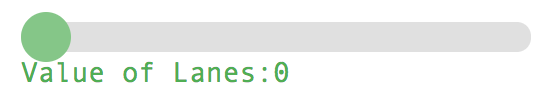
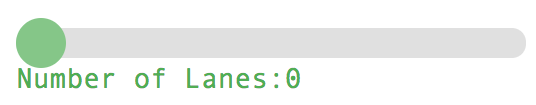
fixed img path error tutorial, and updated tutorial

Changed region(s): [[0.0299, 0.125, 0.9851, 0.875]]

diff --git a/src/client/app/widgets/car/documentation/car_tutorials/tutorial-Arcade.html b/src/client/app/widgets/car/documentation/car_tutorials/tutorial-Arcade.html
@@ -33,71 +33,71 @@
 <li><strong>Open <a href="http://localhost:8082/demos/arcade_game_simulator/">http://localhost:8082/demos/arcade_game_simulator/</a></strong></li>
 <li><strong>Select the image with the desired steering wheel, which will be used during the simulation.</strong></li>
 </ol>
-<p><img src="/Users/zecarlos/Desktop/pvsio-web/src/client/app/widgets/car/tutorials_jsdoc/img/selectSteeringWheel.png" alt="selectSteeringWheel" width="700" style="margin-left: 150px" ></p>
+<p><img src="/Users/zecarlos/Desktop/pvsio-web/src/client/app/widgets/car/documentation/tutorials_jsdoc/img/selectSteeringWheel.png" alt="selectSteeringWheel" width="700" style="margin-left: 150px" ></p>
 <ol start="3">
 <li><strong>Use the color pickers to select the track colors.</strong></li>
 </ol>
-<p><img src="/Users/zecarlos/Desktop/pvsio-web/src/client/app/widgets/car/tutorials_jsdoc/img/selectTrackColors.png" alt="selectTrackColors" width="700" style="margin-left: 150px" ></p>
+<p><img src="/Users/zecarlos/Desktop/pvsio-web/src/client/app/widgets/car/documentation/tutorials_jsdoc/img/selectTrackColors.png" alt="selectTrackColors" width="700" style="margin-left: 150px" ></p>
 <ol start="4">
 <li><strong>Insert within the square brackets the topography of the lane that you intend to use in the simulation, i.e., the lane that will be constructed and rendered. Use only the keywords: 'left', 'right' and 'straight' to describe the topography of the track, after &quot;name:&quot;. Use only the keywords: 'flat', 'up' and 'down' to describe the profile/height of the track after &quot;profile:&quot;. Use angles, in degrees, to define the curvature angle after &quot;curvature&quot;. The angle 0 represents a straight line. To represent left curvatures the angle must be between 0 and -90. To represent right curvatures the angle must be between 0 and 90.</strong></li>
 </ol>
-<p><img src="/Users/zecarlos/Desktop/pvsio-web/src/client/app/widgets/car/tutorials_jsdoc/img/selectTrackTopography.png" alt="selectTrackTopography" width="700" style="margin-left: 150px" ></p>
+<p><img src="/Users/zecarlos/Desktop/pvsio-web/src/client/app/widgets/car/documentation/tutorials_jsdoc/img/selectTrackTopography.png" alt="selectTrackTopography" width="700" style="margin-left: 150px" ></p>
 <ol start="5">
 <li><strong>Insert the spritesheet JSON filename.</strong></li>
 </ol>
-<p><img src="/Users/zecarlos/Desktop/pvsio-web/src/client/app/widgets/car/tutorials_jsdoc/img/selectSpritesheetJSON.png" alt="selectSpritesheetJSON" width="700" style="margin-left: 150px" ></p>
+<p><img src="/Users/zecarlos/Desktop/pvsio-web/src/client/app/widgets/car/documentation/tutorials_jsdoc/img/selectSpritesheetJSON.png" alt="selectSpritesheetJSON" width="700" style="margin-left: 150px" ></p>
 <ol start="6">
 <li><strong>Insert the spritesheet images filename, one with only letters and other with all objects/obstacles.</strong></li>
 </ol>
-<p><img src="/Users/zecarlos/Desktop/pvsio-web/src/client/app/widgets/car/tutorials_jsdoc/img/selectSpritesheetImages.png" alt="selectSpritesheetImages" width="700" style="margin-left: 150px" ></p>
+<p><img src="/Users/zecarlos/Desktop/pvsio-web/src/client/app/widgets/car/documentation/tutorials_jsdoc/img/selectSpritesheetImages.png" alt="selectSpritesheetImages" width="700" style="margin-left: 150px" ></p>
 <ol start="7">
 <li><strong>Insert within the square brackets the landscape sprites, separated by ','.</strong></li>
 </ol>
-<p><img src="/Users/zecarlos/Desktop/pvsio-web/src/client/app/widgets/car/tutorials_jsdoc/img/selectLandscapeObjects.png" alt="selectLandscapeObjects" width="700" style="margin-left: 150px" ></p>
+<p><img src="/Users/zecarlos/Desktop/pvsio-web/src/client/app/widgets/car/documentation/tutorials_jsdoc/img/selectLandscapeObjects.png" alt="selectLandscapeObjects" width="700" style="margin-left: 150px" ></p>
 <ol start="8">
 <li><strong>Insert within the square brackets the track sprites (obstacles), separated by ','.</strong></li>
 </ol>
-<p><img src="/Users/zecarlos/Desktop/pvsio-web/src/client/app/widgets/car/tutorials_jsdoc/img/selectTrackObstacles.png" alt="selectTrackObstacles" width="700" style="margin-left: 150px" ></p>
+<p><img src="/Users/zecarlos/Desktop/pvsio-web/src/client/app/widgets/car/documentation/tutorials_jsdoc/img/selectTrackObstacles.png" alt="selectTrackObstacles" width="700" style="margin-left: 150px" ></p>
 <ol start="9">
 <li><strong>Fill within the brackets each track parameters, after ':'.</strong></li>
 </ol>
-<p><img src="/Users/zecarlos/Desktop/pvsio-web/src/client/app/widgets/car/tutorials_jsdoc/img/selectTrackParams.png" alt="selectTrackParams" width="700" style="margin-left: 150px" ></p>
+<p><img src="/Users/zecarlos/Desktop/pvsio-web/src/client/app/widgets/car/documentation/tutorials_jsdoc/img/selectTrackParams.png" alt="selectTrackParams" width="700" style="margin-left: 150px" ></p>
 <ol start="10">
 <li><strong>Select arcade vehicle, present in both provided spritesheet JSON and png files, in steps 5 and 6.</strong></li>
 </ol>
-<p><img src="/Users/zecarlos/Desktop/pvsio-web/src/client/app/widgets/car/tutorials_jsdoc/img/selectArcadeVehicle.png" alt="selectArcadeVehicle" width="700" style="margin-left: 150px" ></p>
+<p><img src="/Users/zecarlos/Desktop/pvsio-web/src/client/app/widgets/car/documentation/tutorials_jsdoc/img/selectArcadeVehicle.png" alt="selectArcadeVehicle" width="700" style="margin-left: 150px" ></p>
 <ol start="11">
 <li><strong>Select other customization options for the dashboard widgets, which will be used during the simulation, and other rendering aspects using the following set of ranges.</strong></li>
 </ol>
-<p><img src="/Users/zecarlos/Desktop/pvsio-web/src/client/app/widgets/car/tutorials_jsdoc/img/selectRanges.png" alt="selectRanges" width="700" style="margin-left: 150px" ></p>
+<p><img src="/Users/zecarlos/Desktop/pvsio-web/src/client/app/widgets/car/documentation/tutorials_jsdoc/img/selectRanges.png" alt="selectRanges" width="700" style="margin-left: 150px" ></p>
 <blockquote>
 <p>Select the maximum values that the speedometer and tachometer widgets will have, in the 'Value of Speedometer' and 'Value of Tachometer' ranges. </p>
 </blockquote>
-<p><img src="/Users/zecarlos/Desktop/pvsio-web/src/client/app/widgets/car/tutorials_jsdoc/img/selectRangesSpeedometerTachometer.png" alt="selectRangesSpeedometerTachometer" width="500" style="margin-left: 150px" ></p>
+<p><img src="/Users/zecarlos/Desktop/pvsio-web/src/client/app/widgets/car/documentation/tutorials_jsdoc/img/selectRangesSpeedometerTachometer.png" alt="selectRangesSpeedometerTachometer" width="500" style="margin-left: 150px" ></p>
 <blockquote>
 <p>If the values selected in these ranges are 200 and 9, respectively, and if the steering wheel selected is the porsche steering wheel ( purple steering wheel ), then the final vehicle dashboard, which will be used during the simulation, is</p>
 </blockquote>
-<p><img src="/Users/zecarlos/Desktop/pvsio-web/src/client/app/widgets/car/tutorials_jsdoc/img/customizationResult.png" alt="customizationResult" width="500" style="margin-left: 150px" ></p>
+<p><img src="/Users/zecarlos/Desktop/pvsio-web/src/client/app/widgets/car/documentation/tutorials_jsdoc/img/customizationResult.png" alt="customizationResult" width="500" style="margin-left: 150px" ></p>
 <blockquote>
-<p>Select the desired number of lanes, to draw within the track during the simulation, in the 'Value of Lanes' range.</p>
+<p>Select the desired number of lanes, to draw within the track during the simulation, in the 'Number of Lanes' range.</p>
 </blockquote>
-<p><img src="/Users/zecarlos/Desktop/pvsio-web/src/client/app/widgets/car/tutorials_jsdoc/img/selectRangeLanes.png" alt="selectRangeLanes" width="200" style="margin-left: 300px" ></p>
+<p><img src="/Users/zecarlos/Desktop/pvsio-web/src/client/app/widgets/car/documentation/tutorials_jsdoc/img/selectRangeLanes.png" alt="selectRangeLanes" width="200" style="margin-left: 300px" ></p>
 <blockquote>
 <p>Select the frequency of obstacles to be placed within the track during the simulation, in the 'Frequence of Obstacles' range, i.e. choose how many iterations a new obstacle arises.</p>
 </blockquote>
-<p><img src="/Users/zecarlos/Desktop/pvsio-web/src/client/app/widgets/car/tutorials_jsdoc/img/selectRangesObstacles.png" alt="selectRangesObstacles" width="200" style="margin-left: 300px" ></p>
+<p><img src="/Users/zecarlos/Desktop/pvsio-web/src/client/app/widgets/car/documentation/tutorials_jsdoc/img/selectRangesObstacles.png" alt="selectRangesObstacles" width="200" style="margin-left: 300px" ></p>
 <blockquote>
-<p>Select the desired number of laps, to be rendered by Arcade widget during the simulation.</p>
+<p>Select the desired number of laps, in the 'Number of Laps' range, to be rendered by Arcade widget during the simulation.</p>
 </blockquote>
-<p><img src="/Users/zecarlos/Desktop/pvsio-web/src/client/app/widgets/car/tutorials_jsdoc/img/selectLaps.png" alt="selectLaps" width="200" style="margin-left: 300px" ></p>
+<p><img src="/Users/zecarlos/Desktop/pvsio-web/src/client/app/widgets/car/documentation/tutorials_jsdoc/img/selectLaps.png" alt="selectLaps" width="200" style="margin-left: 300px" ></p>
 <blockquote>
 <p>Choose if Arcade widget will use the PVS instructions during the simulation. By default, i.e. value 0, this widget will use PVS instructions to update the vehicle status during the simulation. This slider allows to test the difference in the rendering processs speed, since PVS instructions turns the simulation much slower than using a self-contained widget that calculates those values.</p>
 </blockquote>
-<p><img src="/Users/zecarlos/Desktop/pvsio-web/src/client/app/widgets/car/tutorials_jsdoc/img/selectPVS.png" alt="selectPVS" width="200" style="margin-left: 300px" ></p>
+<p><img src="/Users/zecarlos/Desktop/pvsio-web/src/client/app/widgets/car/documentation/tutorials_jsdoc/img/selectPVS.png" alt="selectPVS" width="200" style="margin-left: 300px" ></p>
 <blockquote>
 <p>To finish the customization, slide the last range to the right.</p>
 </blockquote>
-<p><img src="/Users/zecarlos/Desktop/pvsio-web/src/client/app/widgets/car/tutorials_jsdoc/img/endRange.png" alt="EndRange" width="50" style="margin-left: 400px" ></p>
+<p><img src="/Users/zecarlos/Desktop/pvsio-web/src/client/app/widgets/car/documentation/tutorials_jsdoc/img/endRange.png" alt="EndRange" width="50" style="margin-left: 400px" ></p>
 <blockquote>
 <p>Although it was not an objective in this dissertation, the widget 'Customization' was created to ease the simulation process. However, since this is not a priority, this widget can be improved over time, for example by adding other customization options that match the optional fields that the TrackGenerator and Arcade widgets have.</p>
 </blockquote>
@@ -136,8 +136,6 @@ trackGenerator.trackGeneratorWidget = new TrackGenerator(&quot;trackGeneratorWid
     laneWidth: 0.02,
     trackParam: {
         numZones:    12, // number of different portions of the track
-        curvy:     0.8,
-        mountainy: 0.8,
         zoneSize:  250 // length of each numZones (the bigger this value. the longer it will take to finish)
     },
     // Information regarding current controllable_car's car
@@ -637,10 +635,10 @@ trackColors: {
 },
 trackLayout: []</code></pre></blockquote>
 <blockquote>
-<p>The desired layout, 'trackLayout' optional field, will only be translated into canvas segments, which will be represented by the Arcade widget, by the generateDesiredTrack() method. The generateStraightTrack() and generateTrackCurvesSlopes() methods can be invoked when the user wants to render random track, with only straight lines or with straight lines, curves and slopes, respectively.</p>
+<p>The desired layout, 'trackLayout' optional field, will only be translated into canvas segments, which will be represented by the Arcade widget, by the generateTrackBasedOnTrackLayoutOptField() method. The generateStraightTrack() and generateTrackCurvesSlopes() methods can be invoked when the user wants to render random track, with only straight lines or with straight lines, curves and slopes, respectively.</p>
 </blockquote>
 <blockquote>
-<p>Invoking the above APIs ( generateStraightTrack(),generateTrackCurvesSlopes(),generateDesiredTrack ) results in the creation of a JSON file with the following structure,</p>
+<p>Invoking the above APIs ( generateStraightTrack(),generateTrackCurvesSlopes(),generateTrackBasedOnTrackLayoutOptField() ) results in the creation of a JSON file with the following structure,</p>
 </blockquote>
 <pre class="prettyprint source"><code>generatedJSON = {
     controllable_car: controllable_car,
@@ -654,7 +652,10 @@ trackLayout: []</code></pre></blockquote>
     trackSegmentSize: trackSegmentSize,
     trackColors: trackColors
 };</code></pre><blockquote>
-<p>Currently, PVSio-web does not have any file-writing APIs in the context of widgets, and as such, the TrackGenerator widget is not able to write the JSON file. Then, the user needs to perform <code>console.log(JSON.stringify(generatedJSON))</code> and copy/paste the result into a JSON file, that is, the user needs to perform the non-existent API process manually. Predefined file names are &quot;track-straight.json&quot; or &quot;track-curves-slopes.json&quot;, however it is possible to use other file names, since the Arcade widget receives the filename as optional field. When the file-writing API exists, it should be added on lines 628 and 847 with <code>console.log(JSON.stringify(generatedJSON))</code>, as well as the filename, as arguments, in TrackGenerator.js file. This file-writing API, must return the filename just created, so it can be used in the pipeline Customization Widget -&gt; TrackGenerator Widget -&gt; Arcade Widget automatically, for more detailed information see <a href="https://github.com/zecarlos94/pvsio-web/tree/gaming/src/client/app/widgets/car/Customization.js">https://github.com/zecarlos94/pvsio-web/tree/gaming/src/client/app/widgets/car/Customization.js</a> (line 1855 to 1865).</p>
+<p>Currently, PVSio-web does not have any file-writing APIs in the context of widgets, and as such, the TrackGenerator widget is not able to write the JSON file. Then, the user needs to perform <code>console.log(JSON.stringify(self2.generatedJSON));</code> and copy/paste the result into a JSON file, that is, the user needs to perform the non-existent API process manually. Predefined file names are &quot;track-straight-random.json&quot; or &quot;track-curves-slopes-random.json&quot;, however it is possible to use other file names, since the Arcade widget receives the filename as optional field. </p>
+</blockquote>
+<blockquote>
+<p>When the file-writing API exists, it should be added on lines 471, 739 and 931 with <code>console.log(JSON.stringify(self2.generatedJSON));</code> in <a href="https://github.com/zecarlos94/pvsio-web/tree/gamingDev/src/client/app/widgets/car/TrackGenerator.js">https://github.com/zecarlos94/pvsio-web/tree/gamingDev/src/client/app/widgets/car/TrackGenerator.js</a> file, as well as the filename, as arguments. This file-writing API, must return the filename just created, so it can be used in the pipeline Customization Widget -&gt; TrackGenerator Widget -&gt; Arcade Widget automatically, for more detailed information see <a href="https://github.com/zecarlos94/pvsio-web/tree/gamingDev/src/client/app/widgets/car/Customization.js">https://github.com/zecarlos94/pvsio-web/tree/gamingDev/src/client/app/widgets/car/Customization.js</a> (line 1673 should have the value obtained in line 1659, i.e. the value returned by the file-writing API).</p>
 </blockquote>
 <blockquote>
 <p>Once the JSON file with the desired track has been created, it will be possible to render it using the Arcade widget.</p>
@@ -1154,7 +1155,7 @@ state: TYPE = [#
 <br class="clear">
 
 <footer>
-    Documentation generated by <a href="https://github.com/jsdoc3/jsdoc">JSDoc 3.5.5</a> on Sun Jun 17 2018 11:13:26 GMT+0100 (WEST)
+    Documentation generated by <a href="https://github.com/jsdoc3/jsdoc">JSDoc 3.5.5</a> on Sun Jul 08 2018 12:03:27 GMT+0100 (WEST)
 </footer>
 
 <script> prettyPrint(); </script>

diff --git a/src/client/app/widgets/car/documentation/car_tutorials/index.html b/src/client/app/widgets/car/documentation/car_tutorials/index.html
@@ -45,16 +45,16 @@
     <section>
         <article><h1>Arcade Simulator JavaScript Library</h1><p>The PVSio-web Library for rendering 2D arcade simulations</p>
 <p>Related papers are available ( <a href="http://www.pvsioweb.org/">http://www.pvsioweb.org/</a> ).</p>
-<p>Further documentation can be found at ( <a href="http://github.com/zecarlos94/pvsio-web/tree/gaming/src/client/app/widgets/car/car_docs/index.html/">http://github.com/zecarlos94/pvsio-web/tree/gaming/src/client/app/widgets/car/car_docs/index.html/</a> )</p>
+<p>Further documentation can be found at ( <a href="https://github.com/zecarlos94/pvsio-web/blob/gamingDev/src/client/app/widgets/car/documentation/car_docs/index.html/">https://github.com/zecarlos94/pvsio-web/blob/gamingDev/src/client/app/widgets/car/documentation/car_docs/index.html/</a> )</p>
 <h2>How to Try</h2><h3>Initial setup required to run pvsio-web widgets</h3><pre class="prettyprint source"><code>1. cd Desktop/
 2. git clone &quot;https://github.com/zecarlos94/pvsio-web.git&quot;
 3. cd pvsio-web/
-4. git checkout gaming
+4. git checkout gamingDev
 5. Open browser &quot;http://pvs.csl.sri.com/download.shtml&quot; to download latest version of PVS Binaries according to your OS
 6. Copy/Paste and replace all files inside the downloaded folder to pvsio-web/PVS. (By default the provided binaries are for MacOS, and when running the demos on other OS those will not work)
 7. Run command: sh start.sh ( MacOS ) or ./start.sh ( Linux )</code></pre><h3>Running Demos on the browser</h3><p>Open <a href="http://localhost:8082/demos/arcade_game_simulator/">http://localhost:8082/demos/arcade_game_simulator/</a> with your browser to test the demo for the more conscious user, i.e. that sets all opt fields manually in index.js file.</p>
 <p>Or</p>
-<p>Open <a href="http://localhost:8082/demos/driving_simulator/">http://localhost:8082/demos/driving_simulator/</a> with your browser to test the demo for the less conscious user, i.e. that fills all customization menus to customize the simulation without setting opt fields manually. An example of possible values to fill those customization menus is presented in <a href="http://github.com/zecarlos94/pvsio-web/tree/gaming/src/client/app/widgets/car/configurations/CustomizationFieldsPossibleValues_Demo_Driving_Simulator.txt">http://github.com/zecarlos94/pvsio-web/tree/gaming/src/client/app/widgets/car/configurations/CustomizationFieldsPossibleValues_Demo_Driving_Simulator.txt</a></p>
+<p>Open <a href="http://localhost:8082/demos/driving_simulator/">http://localhost:8082/demos/driving_simulator/</a> with your browser to test the demo for the less conscious user, i.e. that fills all customization menus to customize the simulation without setting opt fields manually. An example of possible values to fill those customization menus is presented in <a href="https://github.com/zecarlos94/pvsio-web/blob/gamingDev/src/client/app/widgets/car/configurations/CustomizationFieldsPossibleValues_Demo_Driving_Simulator.txt">https://github.com/zecarlos94/pvsio-web/blob/gamingDev/src/client/app/widgets/car/configurations/CustomizationFieldsPossibleValues_Demo_Driving_Simulator.txt</a></p>
 <p>Only tested with Google Chrome.</p></article>
     </section>
 
@@ -72,7 +72,7 @@
 <br class="clear">
 
 <footer>
-    Documentation generated by <a href="https://github.com/jsdoc3/jsdoc">JSDoc 3.5.5</a> on Sun Jun 17 2018 11:13:26 GMT+0100 (WEST)
+    Documentation generated by <a href="https://github.com/jsdoc3/jsdoc">JSDoc 3.5.5</a> on Sun Jul 08 2018 12:03:27 GMT+0100 (WEST)
 </footer>
 
 <script> prettyPrint(); </script>

diff --git a/src/client/app/widgets/car/documentation/car_docs/Arcade.js.html b/src/client/app/widgets/car/documentation/car_docs/Arcade.js.html
@@ -60,8 +60,8 @@
  *                 // logoImgIndex: 1, // defines logo sprite image suffix
  *                 // backgroundImgIndex: 1, // defines background sprite image suffix
  *                 stripePositions: {
- *                    trackP1: -0.50,
- *                    trackP2: 0.50,
+ *                    trackP1: -0.55,
+ *                    trackP2: 0.55,
  *                    borderWidth: 0.08,
  *                    inOutBorderWidth: 0.02,
  *                    landscapeOutBorderWidth: 0.13,
@@ -137,8 +137,8 @@
  *                 // logoImgIndex: 1, // defines logo sprite image suffix
  *                 // backgroundImgIndex: 1, // defines background sprite image suffix
  *                 stripePositions: {
- *                    trackP1: -0.50,
- *                    trackP2: 0.50,
+ *                    trackP1: -0.55,
+ *                    trackP2: 0.55,
  *                    borderWidth: 0.08,
  *                    inOutBorderWidth: 0.02,
  *                    landscapeOutBorderWidth: 0.13,
@@ -239,7 +239,7 @@ define(function (require, exports, module) {
 	 * @param [opt.backgroundImgIndex] {Int} number placed as suffix in the JSON file with the sprite of the background image (default is null).
 	 * @param [opt.realisticImgs] {Bool} value that indicates if the sprite of the vehicle to be used is a realistic image or if it is a pixelated image as in arcade games (default is "false").
 	 * @param [opt.vehicle] {String} the type of vehicle to be used in the simulation. The types available are ["airplane", "bicycle", "car", "helicopter", "motorbike"]. It should be noted that these types must exist in the spritesheet if they are to be used. (default is "car").
-	 * @param [opt.stripePositions] {Object} position values and respective widths (borders, track and finish line) to be rendered on a stripe. (default is { trackP1: -0.50, trackP2: 0.50, borderWidth: 0.08, inOutBorderWidth: 0.02, landscapeOutBorderWidth: 0.13, diffTrackBorder: 0.05, finishLineP1: -0.40, finishLineP2: 0.40, diffLanesFinishLine: 0.05 }).
+	 * @param [opt.stripePositions] {Object} position values and respective widths (borders, track and finish line) to be rendered on a stripe. (default is { trackP1: -0.55, trackP2: 0.55, borderWidth: 0.08, inOutBorderWidth: 0.02, landscapeOutBorderWidth: 0.13, diffTrackBorder: 0.05, finishLineP1: -0.40, finishLineP2: 0.40, diffLanesFinishLine: 0.05 }).
 	 * @param [opt.lapNumber] {Int} the number of desired laps in the simulation (default is 2 laps).
 	 * @param [opt.showOfficialLogo] {Bool} the option to render extra image, on the bottom-left corner, which is the PVSio-web logo created in this thesis (default is false).
 	 * @param [opt.loadPVSSpeedPositions] {Bool} allows to use PVS calculated positions and speed in the simulation. (default is true).
@@ -2774,7 +2774,7 @@ define(function (require, exports, module) {
 <br class="clear">
 
 <footer>
-    Documentation generated by <a href="https://github.com/jsdoc3/jsdoc">JSDoc 3.5.5</a> on Sun Jun 17 2018 11:13:06 GMT+0100 (WEST)
+    Documentation generated by <a href="https://github.com/jsdoc3/jsdoc">JSDoc 3.5.5</a> on Sun Jul 08 2018 12:03:24 GMT+0100 (WEST)
 </footer>
 
 <script> prettyPrint(); </script>

diff --git a/src/client/app/widgets/car/Arcade.js b/src/client/app/widgets/car/Arcade.js
@@ -32,8 +32,8 @@
  *                 // logoImgIndex: 1, // defines logo sprite image suffix
  *                 // backgroundImgIndex: 1, // defines background sprite image suffix
  *                 stripePositions: {
- *                    trackP1: -0.50,
- *                    trackP2: 0.50,
+ *                    trackP1: -0.55,
+ *                    trackP2: 0.55,
  *                    borderWidth: 0.08,
  *                    inOutBorderWidth: 0.02,
  *                    landscapeOutBorderWidth: 0.13,
@@ -109,8 +109,8 @@
  *                 // logoImgIndex: 1, // defines logo sprite image suffix
  *                 // backgroundImgIndex: 1, // defines background sprite image suffix
  *                 stripePositions: {
- *                    trackP1: -0.50,
- *                    trackP2: 0.50,
+ *                    trackP1: -0.55,
+ *                    trackP2: 0.55,
  *                    borderWidth: 0.08,
  *                    inOutBorderWidth: 0.02,
  *                    landscapeOutBorderWidth: 0.13,
@@ -211,7 +211,7 @@ define(function (require, exports, module) {
 	 * @param [opt.backgroundImgIndex] {Int} number placed as suffix in the JSON file with the sprite of the background image (default is null).
 	 * @param [opt.realisticImgs] {Bool} value that indicates if the sprite of the vehicle to be used is a realistic image or if it is a pixelated image as in arcade games (default is "false").
 	 * @param [opt.vehicle] {String} the type of vehicle to be used in the simulation. The types available are ["airplane", "bicycle", "car", "helicopter", "motorbike"]. It should be noted that these types must exist in the spritesheet if they are to be used. (default is "car").
-	 * @param [opt.stripePositions] {Object} position values and respective widths (borders, track and finish line) to be rendered on a stripe. (default is { trackP1: -0.50, trackP2: 0.50, borderWidth: 0.08, inOutBorderWidth: 0.02, landscapeOutBorderWidth: 0.13, diffTrackBorder: 0.05, finishLineP1: -0.40, finishLineP2: 0.40, diffLanesFinishLine: 0.05 }).
+	 * @param [opt.stripePositions] {Object} position values and respective widths (borders, track and finish line) to be rendered on a stripe. (default is { trackP1: -0.55, trackP2: 0.55, borderWidth: 0.08, inOutBorderWidth: 0.02, landscapeOutBorderWidth: 0.13, diffTrackBorder: 0.05, finishLineP1: -0.40, finishLineP2: 0.40, diffLanesFinishLine: 0.05 }).
 	 * @param [opt.lapNumber] {Int} the number of desired laps in the simulation (default is 2 laps).
 	 * @param [opt.showOfficialLogo] {Bool} the option to render extra image, on the bottom-left corner, which is the PVSio-web logo created in this thesis (default is false).
 	 * @param [opt.loadPVSSpeedPositions] {Bool} allows to use PVS calculated positions and speed in the simulation. (default is true).

diff --git a/src/client/app/widgets/car/documentation/tutorials_jsdoc/Arcade.js b/src/client/app/widgets/car/documentation/tutorials_jsdoc/Arcade.js
@@ -32,8 +32,8 @@
  *                 // logoImgIndex: 1, // defines logo sprite image suffix
  *                 // backgroundImgIndex: 1, // defines background sprite image suffix
  *                 stripePositions: {
- *                    trackP1: -0.50,
- *                    trackP2: 0.50,
+ *                    trackP1: -0.55,
+ *                    trackP2: 0.55,
  *                    borderWidth: 0.08,
  *                    inOutBorderWidth: 0.02,
  *                    landscapeOutBorderWidth: 0.13,
@@ -109,8 +109,8 @@
  *                 // logoImgIndex: 1, // defines logo sprite image suffix
  *                 // backgroundImgIndex: 1, // defines background sprite image suffix
  *                 stripePositions: {
- *                    trackP1: -0.50,
- *                    trackP2: 0.50,
+ *                    trackP1: -0.55,
+ *                    trackP2: 0.55,
  *                    borderWidth: 0.08,
  *                    inOutBorderWidth: 0.02,
  *                    landscapeOutBorderWidth: 0.13,
@@ -211,7 +211,7 @@ define(function (require, exports, module) {
 	 * @param [opt.backgroundImgIndex] {Int} number placed as suffix in the JSON file with the sprite of the background image (default is null).
 	 * @param [opt.realisticImgs] {Bool} value that indicates if the sprite of the vehicle to be used is a realistic image or if it is a pixelated image as in arcade games (default is "false").
 	 * @param [opt.vehicle] {String} the type of vehicle to be used in the simulation. The types available are ["airplane", "bicycle", "car", "helicopter", "motorbike"]. It should be noted that these types must exist in the spritesheet if they are to be used. (default is "car").
-	 * @param [opt.stripePositions] {Object} position values and respective widths (borders, track and finish line) to be rendered on a stripe. (default is { trackP1: -0.50, trackP2: 0.50, borderWidth: 0.08, inOutBorderWidth: 0.02, landscapeOutBorderWidth: 0.13, diffTrackBorder: 0.05, finishLineP1: -0.40, finishLineP2: 0.40, diffLanesFinishLine: 0.05 }).
+	 * @param [opt.stripePositions] {Object} position values and respective widths (borders, track and finish line) to be rendered on a stripe. (default is { trackP1: -0.55, trackP2: 0.55, borderWidth: 0.08, inOutBorderWidth: 0.02, landscapeOutBorderWidth: 0.13, diffTrackBorder: 0.05, finishLineP1: -0.40, finishLineP2: 0.40, diffLanesFinishLine: 0.05 }).
 	 * @param [opt.lapNumber] {Int} the number of desired laps in the simulation (default is 2 laps).
 	 * @param [opt.showOfficialLogo] {Bool} the option to render extra image, on the bottom-left corner, which is the PVSio-web logo created in this thesis (default is false).
 	 * @param [opt.loadPVSSpeedPositions] {Bool} allows to use PVS calculated positions and speed in the simulation. (default is true).

diff --git a/src/client/app/widgets/car/documentation/car_docs/module-Arcade.html b/src/client/app/widgets/car/documentation/car_docs/module-Arcade.html
@@ -152,8 +152,8 @@ Opt field trackFilename is the JSON file, which was created by TrackGenerator Wi
                 // logoImgIndex: 1, // defines logo sprite image suffix
                 // backgroundImgIndex: 1, // defines background sprite image suffix
                 stripePositions: {
-                   trackP1: -0.50,
-                   trackP2: 0.50,
+                   trackP1: -0.55,
+                   trackP2: 0.55,
                    borderWidth: 0.08,
                    inOutBorderWidth: 0.02,
                    landscapeOutBorderWidth: 0.13,
@@ -230,8 +230,8 @@ Opt field trackFilename is the JSON file, which was created by TrackGenerator Wi
                 // logoImgIndex: 1, // defines logo sprite image suffix
                 // backgroundImgIndex: 1, // defines background sprite image suffix
                 stripePositions: {
-                   trackP1: -0.50,
-                   trackP2: 0.50,
+                   trackP1: -0.55,
+                   trackP2: 0.55,
                    borderWidth: 0.08,
                    inOutBorderWidth: 0.02,
                    landscapeOutBorderWidth: 0.13,
@@ -813,7 +813,7 @@ Opt field trackFilename is the JSON file, which was created by TrackGenerator Wi
 
             
 
-            <td class="description last">position values and respective widths (borders, track and finish line) to be rendered on a stripe. (default is { trackP1: -0.50, trackP2: 0.50, borderWidth: 0.08, inOutBorderWidth: 0.02, landscapeOutBorderWidth: 0.13, diffTrackBorder: 0.05, finishLineP1: -0.40, finishLineP2: 0.40, diffLanesFinishLine: 0.05 }).</td>
+            <td class="description last">position values and respective widths (borders, track and finish line) to be rendered on a stripe. (default is { trackP1: -0.55, trackP2: 0.55, borderWidth: 0.08, inOutBorderWidth: 0.02, landscapeOutBorderWidth: 0.13, diffTrackBorder: 0.05, finishLineP1: -0.40, finishLineP2: 0.40, diffLanesFinishLine: 0.05 }).</td>
         </tr>
 
     
@@ -2184,7 +2184,7 @@ Opt field trackFilename is the JSON file, which was created by TrackGenerator Wi
 <br class="clear">
 
 <footer>
-    Documentation generated by <a href="https://github.com/jsdoc3/jsdoc">JSDoc 3.5.5</a> on Sun Jun 17 2018 11:13:06 GMT+0100 (WEST)
+    Documentation generated by <a href="https://github.com/jsdoc3/jsdoc">JSDoc 3.5.5</a> on Sun Jul 08 2018 12:03:25 GMT+0100 (WEST)
 </footer>
 
 <script> prettyPrint(); </script>

diff --git a/src/client/app/widgets/car/documentation/car_tutorials/module-Arcade.html b/src/client/app/widgets/car/documentation/car_tutorials/module-Arcade.html
@@ -147,8 +147,8 @@ Opt field trackFilename is the JSON file, which was created by TrackGenerator Wi
                 // logoImgIndex: 1, // defines logo sprite image suffix
                 // backgroundImgIndex: 1, // defines background sprite image suffix
                 stripePositions: {
-                   trackP1: -0.50,
-                   trackP2: 0.50,
+                   trackP1: -0.55,
+                   trackP2: 0.55,
                    borderWidth: 0.08,
                    inOutBorderWidth: 0.02,
                    landscapeOutBorderWidth: 0.13,
@@ -225,8 +225,8 @@ Opt field trackFilename is the JSON file, which was created by TrackGenerator Wi
                 // logoImgIndex: 1, // defines logo sprite image suffix
                 // backgroundImgIndex: 1, // defines background sprite image suffix
                 stripePositions: {
-                   trackP1: -0.50,
-                   trackP2: 0.50,
+                   trackP1: -0.55,
+                   trackP2: 0.55,
                    borderWidth: 0.08,
                    inOutBorderWidth: 0.02,
                    landscapeOutBorderWidth: 0.13,
@@ -808,7 +808,7 @@ Opt field trackFilename is the JSON file, which was created by TrackGenerator Wi
 
             
 
-            <td class="description last">position values and respective widths (borders, track and finish line) to be rendered on a stripe. (default is { trackP1: -0.50, trackP2: 0.50, borderWidth: 0.08, inOutBorderWidth: 0.02, landscapeOutBorderWidth: 0.13, diffTrackBorder: 0.05, finishLineP1: -0.40, finishLineP2: 0.40, diffLanesFinishLine: 0.05 }).</td>
+            <td class="description last">position values and respective widths (borders, track and finish line) to be rendered on a stripe. (default is { trackP1: -0.55, trackP2: 0.55, borderWidth: 0.08, inOutBorderWidth: 0.02, landscapeOutBorderWidth: 0.13, diffTrackBorder: 0.05, finishLineP1: -0.40, finishLineP2: 0.40, diffLanesFinishLine: 0.05 }).</td>
         </tr>
 
     
@@ -2154,7 +2154,7 @@ Opt field trackFilename is the JSON file, which was created by TrackGenerator Wi
 <br class="clear">
 
 <footer>
-    Documentation generated by <a href="https://github.com/jsdoc3/jsdoc">JSDoc 3.5.5</a> on Sun Jun 17 2018 11:13:26 GMT+0100 (WEST)
+    Documentation generated by <a href="https://github.com/jsdoc3/jsdoc">JSDoc 3.5.5</a> on Sun Jul 08 2018 12:03:27 GMT+0100 (WEST)
 </footer>
 
 <script> prettyPrint(); </script>

diff --git a/src/client/app/widgets/car/documentation/car_docs/module-Customization.html b/src/client/app/widgets/car/documentation/car_docs/module-Customization.html
@@ -2237,7 +2237,7 @@ It should be invoked after creating new Gauge Widgets(Speedometer, Tachometer). 
 <br class="clear">
 
 <footer>
-    Documentation generated by <a href="https://github.com/jsdoc3/jsdoc">JSDoc 3.5.5</a> on Sun Jun 17 2018 11:13:06 GMT+0100 (WEST)
+    Documentation generated by <a href="https://github.com/jsdoc3/jsdoc">JSDoc 3.5.5</a> on Sun Jul 08 2018 12:03:25 GMT+0100 (WEST)
 </footer>
 
 <script> prettyPrint(); </script>

diff --git a/src/client/app/widgets/car/documentation/car_docs/module-DrawGamepad.html b/src/client/app/widgets/car/documentation/car_docs/module-DrawGamepad.html
@@ -1165,7 +1165,7 @@ button "cross" will only be created by the constructor if "cross" is present in 
 <br class="clear">
 
 <footer>
-    Documentation generated by <a href="https://github.com/jsdoc3/jsdoc">JSDoc 3.5.5</a> on Sun Jun 17 2018 11:13:06 GMT+0100 (WEST)
+    Documentation generated by <a href="https://github.com/jsdoc3/jsdoc">JSDoc 3.5.5</a> on Sun Jul 08 2018 12:03:25 GMT+0100 (WEST)
 </footer>
 
 <script> prettyPrint(); </script>

diff --git a/src/client/app/widgets/car/documentation/car_docs/module-GamepadController.html b/src/client/app/widgets/car/documentation/car_docs/module-GamepadController.html
@@ -1681,7 +1681,7 @@ This widget is also self-contained, i.e., the event handler function will call t
 <br class="clear">
 
 <footer>
-    Documentation generated by <a href="https://github.com/jsdoc3/jsdoc">JSDoc 3.5.5</a> on Sun Jun 17 2018 11:13:06 GMT+0100 (WEST)
+    Documentation generated by <a href="https://github.com/jsdoc3/jsdoc">JSDoc 3.5.5</a> on Sun Jul 08 2018 12:03:25 GMT+0100 (WEST)
 </footer>
 
 <script> prettyPrint(); </script>

diff --git a/src/client/app/widgets/car/documentation/car_docs/module-GyroscopeController.html b/src/client/app/widgets/car/documentation/car_docs/module-GyroscopeController.html
@@ -1359,7 +1359,7 @@ to rotate steering wheel Widget received as opt field with sensitivity of 75%.</
 <br class="clear">
 
 <footer>
-    Documentation generated by <a href="https://github.com/jsdoc3/jsdoc">JSDoc 3.5.5</a> on Sun Jun 17 2018 11:13:06 GMT+0100 (WEST)
+    Documentation generated by <a href="https://github.com/jsdoc3/jsdoc">JSDoc 3.5.5</a> on Sun Jul 08 2018 12:03:25 GMT+0100 (WEST)
 </footer>
 
 <script> prettyPrint(); </script>

diff --git a/src/client/app/widgets/car/documentation/car_docs/module-Sound.html b/src/client/app/widgets/car/documentation/car_docs/module-Sound.html
@@ -2540,7 +2540,7 @@ It was developed so that more than one song can be played in the arcade driving 
 <br class="clear">
 
 <footer>
-    Documentation generated by <a href="https://github.com/jsdoc3/jsdoc">JSDoc 3.5.5</a> on Sun Jun 17 2018 11:13:06 GMT+0100 (WEST)
+    Documentation generated by <a href="https://github.com/jsdoc3/jsdoc">JSDoc 3.5.5</a> on Sun Jul 08 2018 12:03:25 GMT+0100 (WEST)
 </footer>
 
 <script> prettyPrint(); </script>
